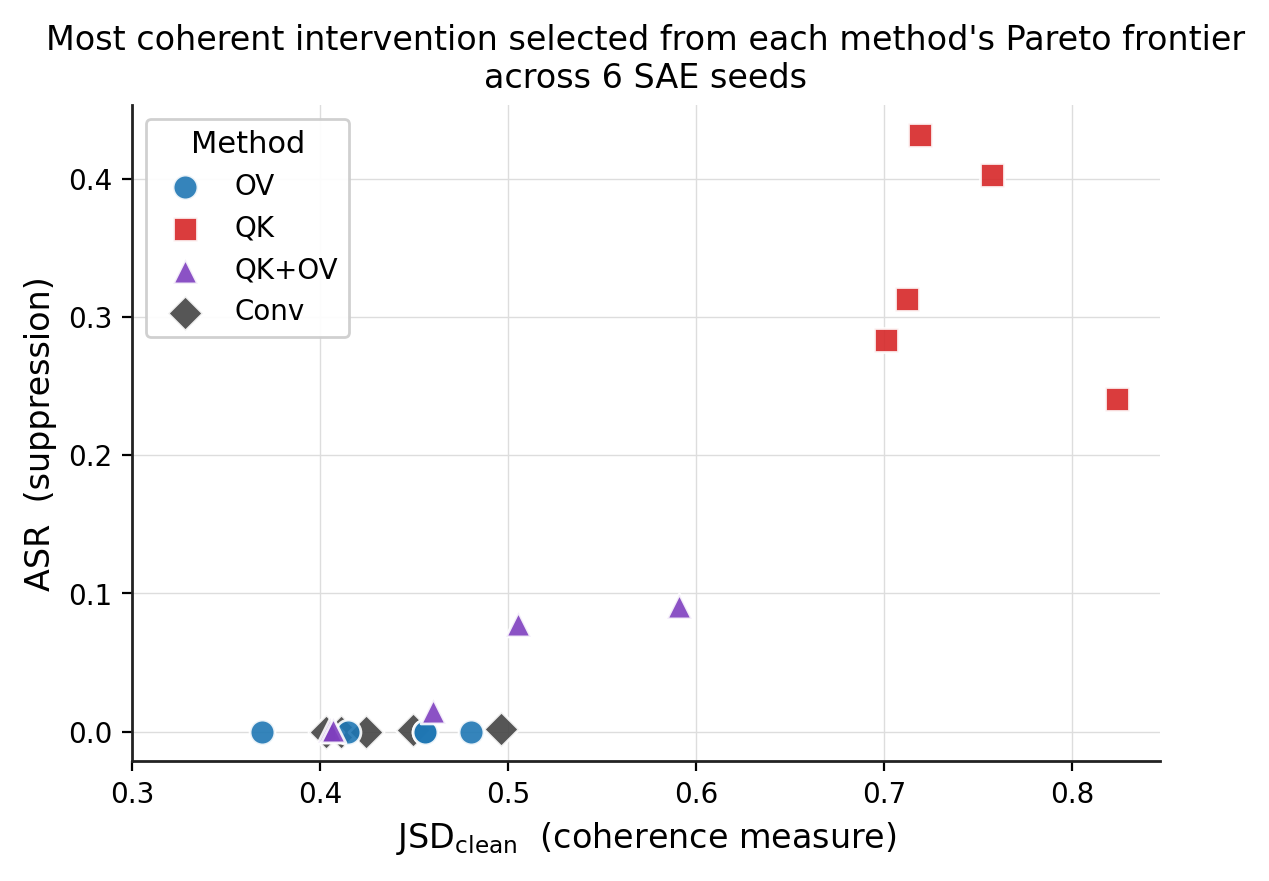
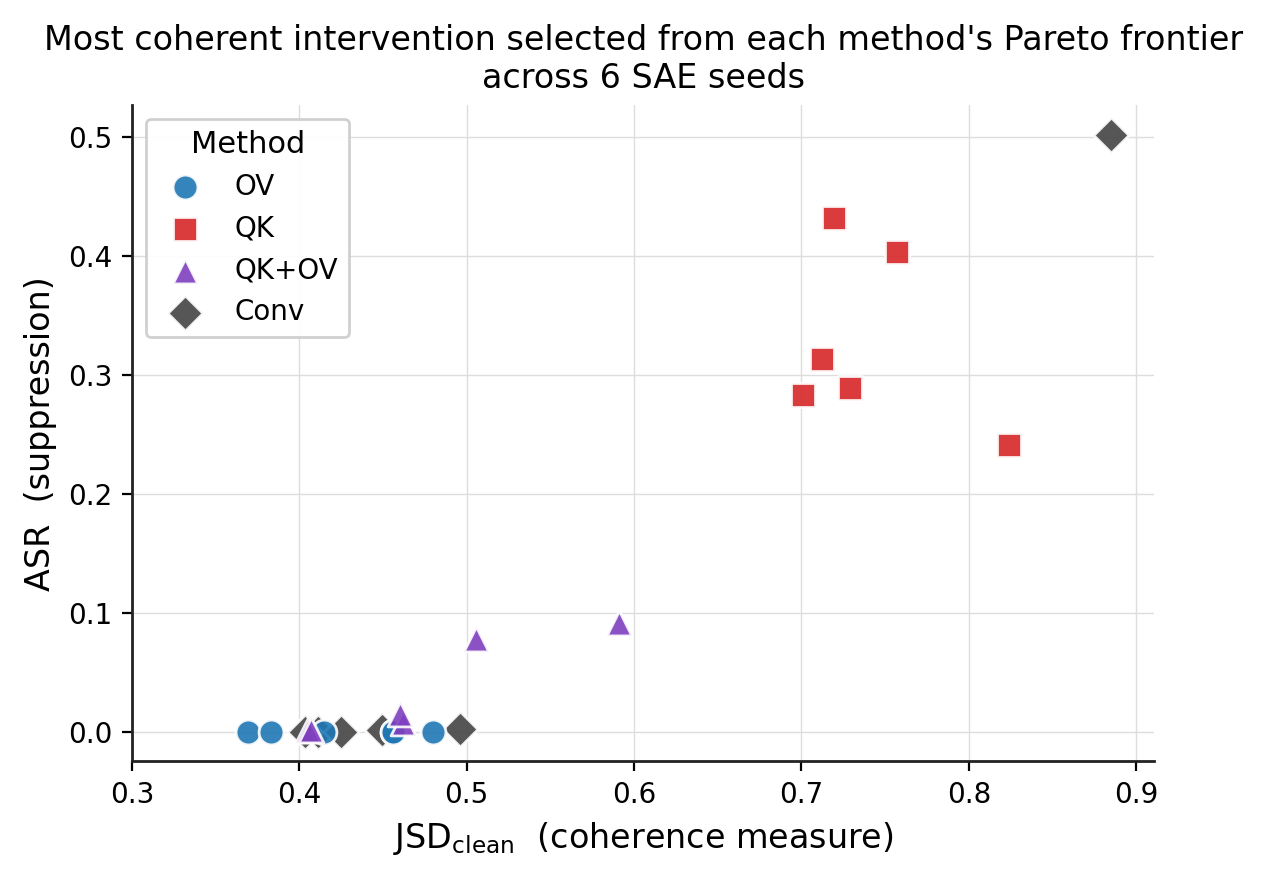
Refresh paper figures with seed 2 included

diff --git a/paper/figures/jsd_stats_table.tex b/paper/figures/jsd_stats_table.tex
@@ -2,7 +2,7 @@
 \toprule
 Method & $\alpha^*$ & JSD$_\text{clean}$ $\downarrow$ & JSD$_\text{pois}$ $\uparrow$ & Exact match $\uparrow$ & ASR $\downarrow$ \\
 \midrule
-OV & $3.50 \pm 0.61$ & $0.450 \pm 0.061$ & $0.982 \pm 0.009$ & $24.8 \pm 4.7$\% & $0.10 \pm 0.22$\% \\
+OV & $3.42 \pm 0.58$ & $0.445 \pm 0.056$ & $0.982 \pm 0.008$ & $25.0 \pm 4.2$\% & $0.08 \pm 0.20$\% \\
 Conv & $3.70 \pm 0.27$ & $0.437 \pm 0.037$ & $0.984 \pm 0.003$ & $24.5 \pm 3.5$\% & $0.06 \pm 0.09$\% \\
 \bottomrule
 \end{tabular}
